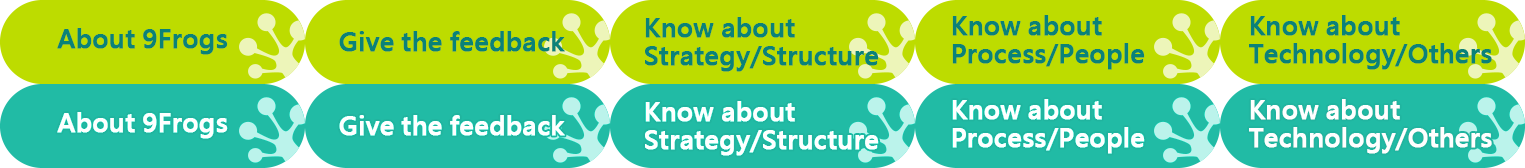
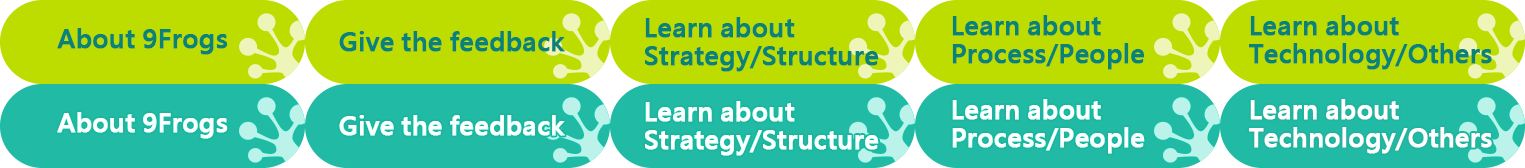
修改主選單按鈕名稱 #20190808

diff --git a/feedback.html b/feedback.html
@@ -16,9 +16,9 @@
            <ul>
                <li class="nav01"><a href="index.html">About 9Frogs</a></li>
                <li class="nav02 nowin02"><a href="feedback.html">Give the feedback</a></li>
-               <li class="nav03"><a href="strategy_structure.html">Know about Strategy/Structure</a></li>
-               <li class="nav04"><a href="process_people.html">Know about Process/People</a></li>
-               <li class="nav05"><a href="technology_others.html">Know about Technology/Others</a></li>
+               <li class="nav03"><a href="strategy_structure.html">Learn about Strategy/Structure</a></li>
+               <li class="nav04"><a href="process_people.html">Learn about Process/People</a></li>
+               <li class="nav05"><a href="technology_others.html">Learn about Technology/Others</a></li>
            </ul>
         </div>
         

diff --git a/index.html b/index.html
@@ -17,9 +17,9 @@
            <ul>
                <li class="nav01 nowin01"><a href="index.html">About 9Frogs</a></li>
                <li class="nav02"><a href="feedback.html">Give the feedback</a></li>
-               <li class="nav03"><a href="strategy_structure.html">Know about Strategy/Structure</a></li>
-               <li class="nav04"><a href="process_people.html">Know about Process/People</a></li>
-               <li class="nav05"><a href="technology_others.html">Know about Technology/Others</a></li>
+               <li class="nav03"><a href="strategy_structure.html">Learn about Strategy/Structure</a></li>
+               <li class="nav04"><a href="process_people.html">Learn about Process/People</a></li>
+               <li class="nav05"><a href="technology_others.html">Learn about Technology/Others</a></li>
            </ul>
         </div>
         
